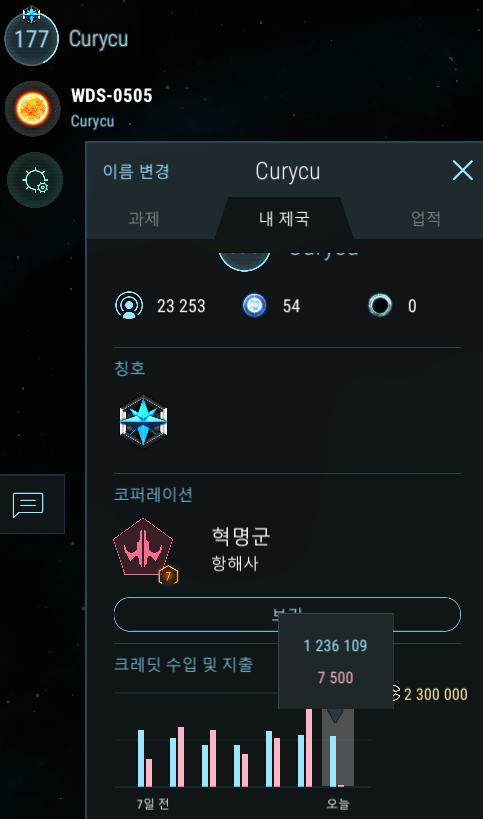
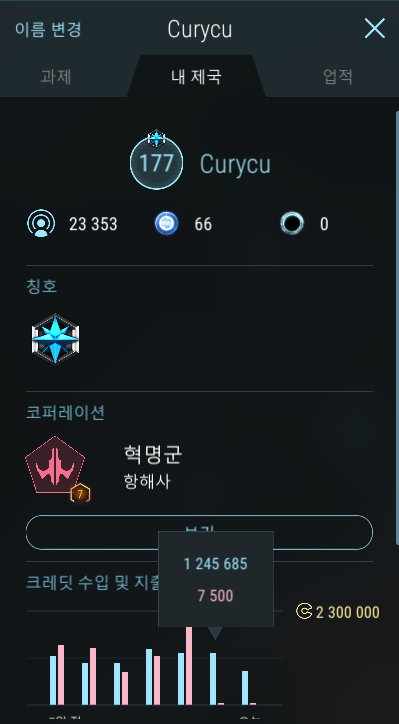
modif article

diff --git a/articles/20210304_Daily_Revenue.md b/articles/20210304_Daily_Revenue.md
@@ -1,10 +1,10 @@
 크레딧 1일 수입 내역  
 
-총합 : 1,236,109  
+총합 : 1,245,685    
 청성 : 169,650  
 꿀광 (적성 8렙) : 300,000 = 150,000 * 2 (2배 이벤트)  
 유물 연구 (적성 8렙 테트) : 49,600 = 6,200 * 8회  
 유물 재활용 (적성 7렙) : 192,000 = 2,400 * 20개 * 4회  
-수송 (수송품드론 8렙, 교역정거장 6렙 3개, 행성 14개) : 524,859 = 1,236,109 - 169,650 - 300,000 - 49,600 - 192,000  
+수송 (수송품드론 8렙, 교역정거장 6렙 3개, 행성 14개) : 534,435 = 1,245,685 - 169,650 - 300,000 - 49,600 - 192,000  
 
 ![](../assets/20210304_Daily_Revenue.PNG)  
